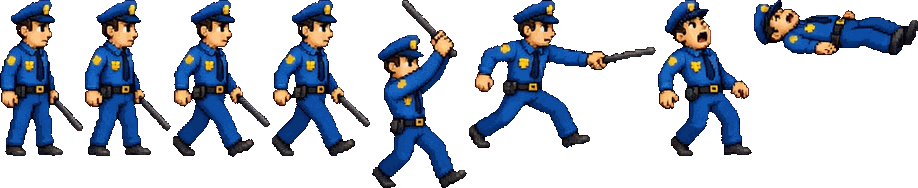
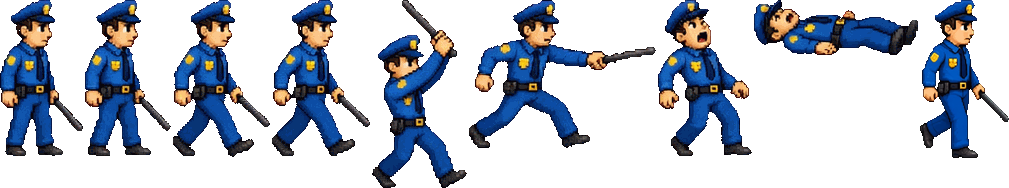
Walk cycles: painted passing pose for Harambe and every enemy/boss
- tools/ai-art/build_walk_pass.py keys the AI passing poses (src_walk/*.jpg, magenta), despills the rim, scales to the stand height (+ half the head-size shortfall, max 5%), anchors on the feet and lines the head/torso up with the stride frame, appends as anims.pass
- Enemies: stride, passing, stride, passing per two steps, driven by ground distance, bob on top
- Harambe: new passing pose replaces the blobby rebuilt passing frames (walk = contact, down, passing, up per leg)
- Tests: pass frame present, foot-anchored, height-matched

diff --git a/js/sprites.js b/js/sprites.js
@@ -80,8 +80,8 @@ export function drawHarambe(ctx, s) {
 }
 export const STOP_T = 0.1; // seconds Harambe takes to settle from mid-stride onto a contact pose when you let go
 
-/** Enemy walk cycles built from the poses each sheet actually has, ordered from the standing (passing) pose to the widest
- * stride (contact). Played as a ping-pong per step and driven by ground distance (`wd`), so the feet keep pace with the
+/** Enemy walk cycles built from the poses each sheet actually has, ordered from the standing pose to the widest
+ * stride (contact; the last entry is the stride used with the painted passing pose). Played as a ping-pong per step and driven by ground distance (`wd`), so the feet keep pace with the
  * ground instead of a fixed 7 fps flip-book. `step` = logic px of ground covered per step. Frame 2 of keeper_dart/agent_kick/
  * agent_net is a near-duplicate of frame 1 (and doubles as a windup pose), so it's left out. */
 export const ENEMY_WALK = {
@@ -92,9 +92,14 @@ export const ENEMY_WALK = {
   boss_head: { poses: [0, 1, 2, 3], step: 26 }, boss_captain: { poses: [0, 1, 2, 3], step: 26 }, boss_agent: { poses: [0, 1, 2], step: 28 },
   boss_general: { poses: [0, 1, 2, 3], step: 26 }, boss_baron: { poses: [0, 1, 2, 3], step: 28 },
 };
-/** Which atlas frame + body bob an enemy shows at ground distance `wd`. Phase 0 = footfall on the widest stride. */
-export function enemyWalkPose(type, wd) {
+/** Which atlas frame + body bob an enemy shows at ground distance `wd`. Phase 0 = footfall.
+ * With a painted passing pose (anims.pass, tools/ai-art/build_walk_pass.py) the cycle is stride, passing, stride, passing:
+ * the widest stride covers the footfall half of each step and the passing pose (foot lifted, legs apart) the other half.
+ * Without one it falls back to a ping-pong from the standing pose to the widest stride. */
+export function enemyWalkPose(type, wd, anims) {
   const w = ENEMY_WALK[type] || { poses: [0], step: 20 }, n = w.poses.length, ph = ((wd / w.step) % 1 + 1) % 1;
+  const pass = anims && anims.pass && anims.pass[0];
+  if (pass != null) return { frame: ph >= 0.25 && ph < 0.75 ? pass : w.poses[n - 1], ph };
   const tri = Math.abs(1 - 2 * ph); // 1 at the footfall (widest stride), 0 at the passing (standing) pose
   return { frame: w.poses[Math.min(n - 1, Math.round(tri * (n - 1)))], ph };
 }
@@ -107,7 +112,7 @@ export function drawHuman(ctx, s) {
   switch (state) {
     case 'walk': case 'run': {
       if (s.moving === false) { anim = 'idle'; break; } // standing still in the walk/chase state (already at its slot): no treading in place
-      const wd = s.wd != null ? s.wd : t * (state === 'run' ? 90 : 36), p = enemyWalkPose(type, wd);
+      const wd = s.wd != null ? s.wd : t * (state === 'run' ? 90 : 36), p = enemyWalkPose(type, wd, m.anims);
       frame = p.frame; bob = stepBob(p.ph, type.startsWith('boss') ? 3 : 2); break; }
     case 'windup': anim = 'windup'; i = (t * 8) % m.anims.windup.length; break;
     case 'atk': anim = 'atk'; i = Math.min(m.anims.atk.length - 1, Math.floor(at * m.anims.atk.length)); break;

diff --git a/tests/story.test.js b/tests/story.test.js
@@ -37,7 +37,8 @@ test('typewriter and advance: first tap completes text, second advances, skip en
 test('walk cycle: 12-frame two-step cycle, one shared body pivot and ground line, loops seamlessly', () => {
   const a = JSON.parse(readFileSync(new URL('../assets/atlas.json', import.meta.url))).harambe;
   assert.equal(a.anims.walk.length, 12);
-  assert.equal(new Set(a.anims.walk).size, 12);
+  assert.ok(new Set(a.anims.walk).size >= 9, 'distinct walk frames'); // the painted passing pose is held for 2 of the 12 phases on each leg
+  assert.ok(a.anims.pass && a.anims.walk.filter(i => i === a.anims.pass[0]).length === 4, 'painted passing pose used once per step (2 phases each)');
   const f = a.anims.walk.map(i => a.frames[i]);
   // feet baseline: the sprite is anchored on the ground line, so each frame's anchor row must lie inside the frame and the cycle never changes scale
   for (const x of f) assert.ok(x.ay > 150 && x.ay <= x.h + 4, 'ay ' + x.ay + ' h ' + x.h);

diff --git a/tests/logic.test.js b/tests/logic.test.js
@@ -103,3 +103,11 @@ test('difficulty ramps stage by stage and the roster matches the theme', () => {
   assert.ok(Object.values(ENEMIES).some(e => e.kind === 'ranged' && e.proj === 'net') && Object.values(ENEMIES).some(e => e.proj === 'dart') && Object.values(ENEMIES).some(e => e.proj === 'bolt'), 'nets, darts and bolts');
   assert.equal(BOSSES.boss_baron.name, 'THE BARON');
 });
+test('every walking character has one painted passing pose (anims.pass) that is foot-anchored and as tall as its stand frame', () => {
+  const atlas = JSON.parse(fs.readFileSync(asset('atlas.json')));
+  for (const [name, m] of Object.entries(atlas)) {
+    if (!m.anims.pass) continue;
+    const f = m.frames[m.anims.pass[0]], ref = name === 'harambe' ? m.frames[24] : m.frames[0];
+    assert.equal(f.ay, f.h, name); assert.ok(f.h >= ref.h - 6 && f.h <= ref.h * 1.06 + 2, name + ' height ' + f.h + ' vs ' + ref.h);
+  }
+});

diff --git a/tools/ai-art/build_walk_pass.py b/tools/ai-art/build_walk_pass.py
@@ -1,0 +1,109 @@
+#!/usr/bin/env python3
+"""Add one AI-generated "passing" walk pose per character (tools/ai-art/src_walk/<sheet>.jpg, magenta background) to the atlas.
+
+The original sheets only had a standing pose plus one stride (same leg forward), so walking read as sliding. Each new frame:
+  * is keyed with keyer.py (hue-based magenta key, fringe shave, edge despill) at full res,
+  * is scaled so its height matches the character's reference frame (enemies: stand frame 0; Harambe: median walk height),
+  * is resized premultiplied, alpha thresholded to hard pixel edges, then despilled again on the final 1-px rim (no pink halo),
+  * is anchored on the feet baseline (ay = h) and pivots on the upper-body mass centre, offset like the stride frame it alternates
+    with, so the torso doesn't jump sideways between stride and passing.
+It is appended to the right of the character's sheet and exposed as anims.pass = [index].
+
+  python3 tools/ai-art/build_walk_pass.py [names...]     (idempotent: an existing pass frame at the sheet's right edge is replaced)
+"""
+import json, os, sys
+import numpy as np
+from PIL import Image
+from scipy import ndimage as ndi
+sys.path.insert(0, os.path.dirname(os.path.abspath(__file__)))
+from keyer import load, key, to_rgba, components
+
+ROOT = os.path.join(os.path.dirname(os.path.abspath(__file__)), '..', '..')
+META = os.path.join(ROOT, 'assets', 'atlas.json')
+SRC = os.path.join(os.path.dirname(os.path.abspath(__file__)), 'src_walk')
+SCALE_FIX = {}   # per-sheet height multiplier tweaks, if a pose needs it (filled after review)
+
+def chest_x(al):
+    h = al.shape[0]; ys, xs = np.nonzero(al[:int(h * .72)]); return float(xs.mean())
+
+def crop(sheet, f):
+    return sheet.crop((f['x'], f['y'], f['x'] + f['w'], f['y'] + f['h']))
+
+def rim_despill(rgba):
+    a = np.array(rgba).astype(float); al = a[..., 3] > 0
+    rim = al & ndi.binary_dilation(~al, iterations=2)
+    r, g, b = a[..., 0], a[..., 1], a[..., 2]
+    spill = np.maximum(np.minimum(r, b) - g, 0)
+    a[..., 0] = np.where(rim, r - spill, r); a[..., 2] = np.where(rim, b - spill, b)
+    # rim pixels that are still clearly magenta-pink after despill are fringe: drop them
+    pink = rim & ((np.minimum(a[..., 0], a[..., 2]) - a[..., 1]) > 30)
+    a[..., 3] = np.where(pink, 0, a[..., 3])
+    return Image.fromarray(np.clip(a, 0, 255).astype(np.uint8))
+
+def build_frame(name, m, sheet):
+    src = load(os.path.join(SRC, name + '.jpg'))
+    fg, _ = key(src)
+    comps = components(fg)
+    if not comps: raise SystemExit('nothing keyed in ' + name)
+    (x0, y0, x1, y1), mask = max(comps, key=lambda c: c[1].sum())
+    rgba = to_rgba(src, mask)[y0:y1, x0:x1]
+    im = Image.fromarray(rgba, 'RGBA')
+    if name == 'harambe': th = int(np.median([m['frames'][i]['h'] for i in range(24, 36)]))
+    else: th = m['frames'][0]['h']
+    # The generated poses have slightly longer legs than the sheet art, so a pure height match leaves the head/shoulders ~7% small.
+    # Split the difference: grow by half the head-width shortfall (capped at 5%), which also gives the passing pose its natural lift.
+    ref_i = 24 if name == 'harambe' else 0
+    def head_w(al): h = al.shape[0]; return float(np.median([al[y].sum() for y in range(int(h * .04), int(h * .14))]))
+    t0 = im.resize((max(1, int(round(im.width * th / im.height))), th), Image.LANCZOS)
+    ratio = head_w(np.array(t0)[..., 3] > 128) / head_w(np.array(crop(sheet, m['frames'][ref_i]))[..., 3] > 40)
+    th = int(round(th * min(1.05, max(1.0, 1 + (1 / ratio - 1) * 0.5)) * SCALE_FIX.get(name, 1.0)))
+    tw = max(1, int(round(im.width * th / im.height)))
+    # premultiplied resize so transparent magenta never bleeds into the edge colours
+    a = np.array(im).astype(float); a[..., :3] *= a[..., 3:4] / 255
+    pm = Image.fromarray(np.clip(a, 0, 255).astype(np.uint8), 'RGBA').resize((tw, th), Image.LANCZOS)
+    b = np.array(pm).astype(float); al = b[..., 3]
+    keep = al >= 128
+    rgb = np.where(keep[..., None], b[..., :3] * 255 / np.maximum(al[..., None], 1), 0)
+    out = np.dstack([np.clip(rgb, 0, 255), keep * 255]).astype(np.uint8)
+    fr = rim_despill(Image.fromarray(out, 'RGBA'))
+    # trim to content (keeps ay == h on the feet)
+    bb = fr.getbbox(); fr = fr.crop(bb)
+    # pivot: same upper-body offset as the stride frame this pose alternates with
+    stride_i = m['anims']['walk'][0] if name == 'harambe' else max(m['anims']['walk'])
+    sf = m['frames'][stride_i]; sal = np.array(crop(sheet, sf))[..., 3] > 40
+    off = sf['ax'] - chest_x(sal)
+    nal = np.array(fr)[..., 3] > 40
+    ax = chest_x(nal) + off
+    # fine-tune: line up the head/shoulders with the stride frame (median over three bands so a prop in one band can't drag it)
+    def band_dx(frac):
+        sh, nh = sal.shape[0], nal.shape[0]
+        return (np.median(np.nonzero(nal[:int(nh * frac)])[1]) - ax) - (np.median(np.nonzero(sal[:int(sh * frac)])[1]) - sf['ax'])
+    ax += float(np.median([band_dx(f) for f in (0.08, 0.2, 0.45)]))
+    ax = int(round(ax)); ax = max(1, min(fr.width - 1, ax))
+    return fr, ax
+
+def main(names):
+    meta = json.load(open(META))
+    for name in names or sorted(f[:-4] for f in os.listdir(SRC) if f.endswith('.jpg')):
+        m = meta[name]; path = os.path.join(ROOT, 'assets', m['img'])
+        sheet = Image.open(path).convert('RGBA')
+        if 'pass' in m['anims']:  # idempotent: drop the previous pass frame (always the last frame, at the right edge)
+            i = m['anims']['pass'][0]; f = m['frames'][i]
+            assert i == len(m['frames']) - 1 and f['x'] + f['w'] == sheet.width, name
+            sheet = sheet.crop((0, 0, max(1, f['x'] - 2), sheet.height)); m['frames'].pop(); del m['anims']['pass']
+            # sheet height may have grown for it; shrink back to the tallest remaining frame
+            sheet = sheet.crop((0, 0, sheet.width, max(ff['y'] + ff['h'] for ff in m['frames'])))
+        fr, ax = build_frame(name, m, sheet)
+        W, H = sheet.width + 2 + fr.width, max(sheet.height, fr.height)
+        ns = Image.new('RGBA', (W, H), (0, 0, 0, 0)); ns.paste(sheet, (0, 0)); ns.paste(fr, (sheet.width + 2, 0))
+        m['frames'].append({'x': sheet.width + 2, 'y': 0, 'w': fr.width, 'h': fr.height, 'ax': ax, 'ay': fr.height})
+        m['anims']['pass'] = [len(m['frames']) - 1]
+        if name == 'harambe':  # contact, down, PASSING, up for each leg: the new pose replaces the blobby rebuilt passing frames 27/28 and 32/33
+            P = m['anims']['pass'][0]; base = list(range(24, 36))
+            m['anims']['walk'] = [P if j in (3, 4, 8, 9) else base[j] for j in range(12)]
+        ns.save(path, optimize=True)
+        print(f"{name}: pass frame {fr.width}x{fr.height} ax {ax} -> index {m['anims']['pass'][0]}")
+    with open(META, 'w') as fh: json.dump(meta, fh, separators=(',', ':'))
+
+if __name__ == '__main__':
+    main(sys.argv[1:])
